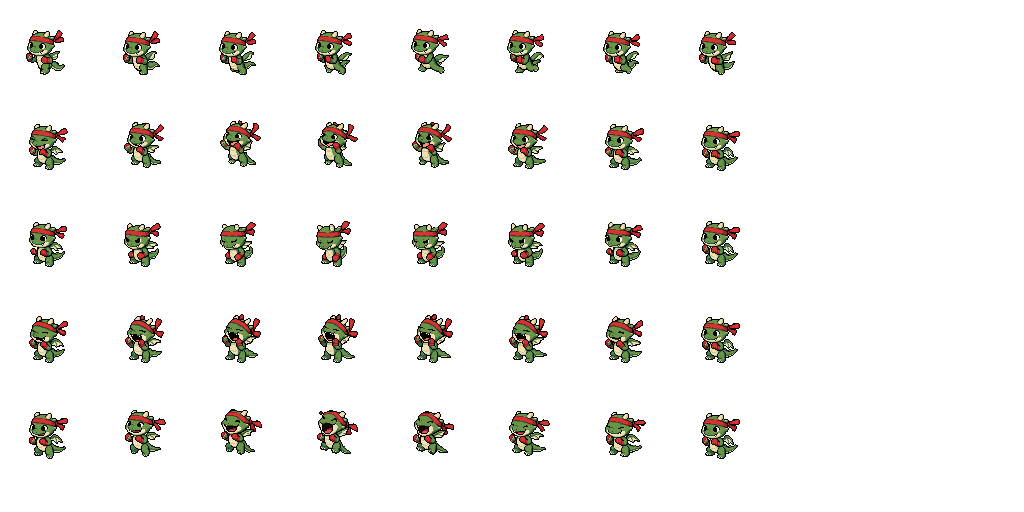
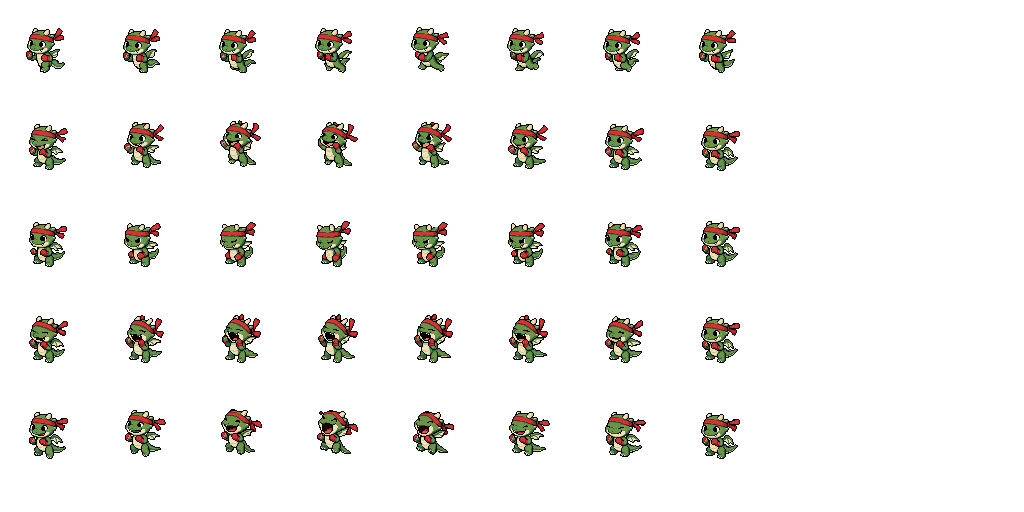
jsal.ui 0.3.36-beta.2: a rare ninth pal, and two walks without a hitch
What a player notices:

- Jsal's Pals has a ninth kind, and its egg is rare: one boss drops it,
  one kill in ten, once your pal is fully grown. It is never among the
  eggs a new player is offered. What it is, is for you to find out.
- Its last form is drawn larger than the others so its wings fit when it
  opens them, now and then while it stands, and in its special.
- Two walks no longer limp: one pal's walk now loops evenly, and another
  walks in eight even steps instead of four.
- The album has a third page.
- Restart the game after updating: there are new pictures.

Why, and how:

- Its egg comes from ENCOUNTER_END for one encounter, killed (success 1).
  Every other boss, and a wipe, leaves nothing.
- A sheet can name a larger cell for its special picture (lay.special);
  the new last form uses 112 cells for its sheet and its special.
- The four-frame walk moved to the sixteen-to-a-row layout, as the other
  eight-frame walks have.
- restartSince is 0.3.36-beta.2: this version adds files.

diff --git a/tools/make_pet_sheet.py b/tools/make_pet_sheet.py
@@ -49,6 +49,8 @@ LAYOUT = {
     "lanternshell": {"cell": 64, "cols": 16, "sheet": (1024, 512), "walk": 8, "shift": 2},
     "capling": {"cell": 64, "cols": 16, "sheet": (1024, 512), "walk": 8, "shift": 2},
     "stormcub": {"cell": 64, "cols": 16, "sheet": (1024, 512), "walk": 8, "shift": 2},
+    # The dragon hatchling's four-frame walk limped; it walks in eight now.
+    "scrapwing": {"cell": 64, "cols": 16, "sheet": (1024, 512), "walk": 8, "shift": 2},
     "flarechamp": {"cell": 80, "cols": 12, "sheet": (1024, 512), "walk": 8, "shift": 0},
     "wispjester": {"cell": 80, "cols": 12, "sheet": (1024, 512), "walk": 4, "shift": 0},
     "boltusk": {"cell": 64, "cols": 16, "sheet": (1024, 512), "walk": 8, "shift": 2},
@@ -62,6 +64,12 @@ LAYOUT = {
     "pebblebill": {"cell": 80, "cols": 12, "sheet": (1024, 512), "walk": 8, "shift": 0},
     "cobbleback": {"cell": 80, "cols": 12, "sheet": (1024, 512), "walk": 8, "shift": 0},
     "rockwarden": {"cell": 80, "cols": 12, "sheet": (1024, 512), "walk": 8, "shift": 0},
+    # The frost owl. Its last form, the Auroracrown, opens its wings in its idle
+    # and its special to about 100 pixels across: 112 cells, nine to a row, and
+    # its special picture has 112 cells too (nine still fit 1024 across).
+    "snowlet": {"cell": 80, "cols": 12, "sheet": (1024, 512), "walk": 8, "shift": 0},
+    "frostmantle": {"cell": 80, "cols": 12, "sheet": (1024, 512), "walk": 8, "shift": 0},
+    "auroracrown": {"cell": 112, "cols": 9, "sheet": (1024, 1024), "walk": 8, "shift": 0, "special": 112},
 }
 
 # A creature whose animations came out standing at different heights names the
@@ -116,6 +124,10 @@ POORLY = ("Poorly", 8, 96, (1024, 128))
 
 def special(folder, lay, ground=None, kind=SPECIAL):
     name, count, side, size = kind
+    if kind is SPECIAL:
+        # A creature whose special is wider than the usual cell names its own.
+        side = lay.get("special", side)
+        assert count * side <= size[0] and side <= size[1], (count, side, size)
     files = sorted((folder / name / "south-west").glob("frame_*.png"))
     if not files:
         return None

diff --git a/CHANGELOG.md b/CHANGELOG.md
@@ -2,8 +2,9 @@
 
 Restart the game after updating (exit and start it again): this version adds new pictures, and a /reload doesn't load them.
 
-- **Jsal's Pals: two new pals to discover, eight kinds in all.** What they are, how they grow up and what they can do is for you to find out.
-  - **Two new eggs** are out there for a fully grown pal to turn up as you play, and either can be among the three a new player chooses from.
+- **Jsal's Pals: three new pals to discover, nine kinds in all.** What they are, how they grow up and what they can do is for you to find out.
+  - **Three new eggs** are out there for a fully grown pal to turn up as you play. Two of them can be among the three a new player chooses from. The third is rare, and you'll have to earn it.
+  - **Smoother walks** for two pals whose step had a hitch in it.
 - **The album turns its pages.** Four kinds to a page, with arrows at its top right, so every name fits.
 
 ## In 0.3.35
